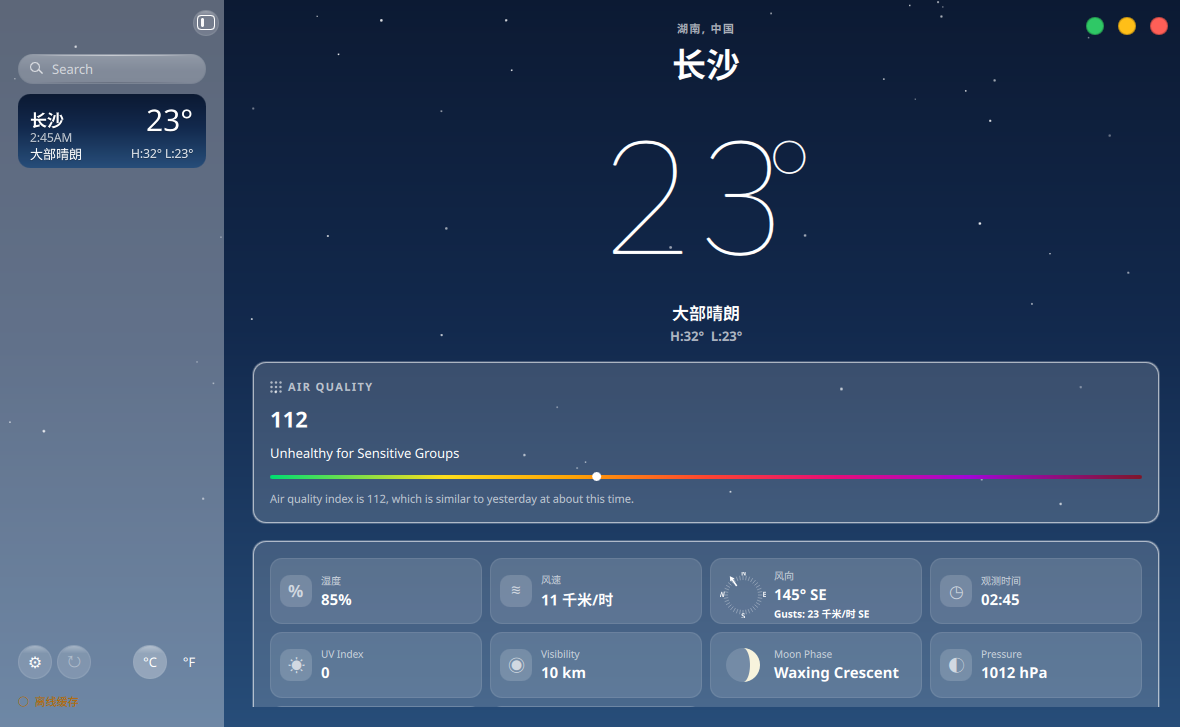
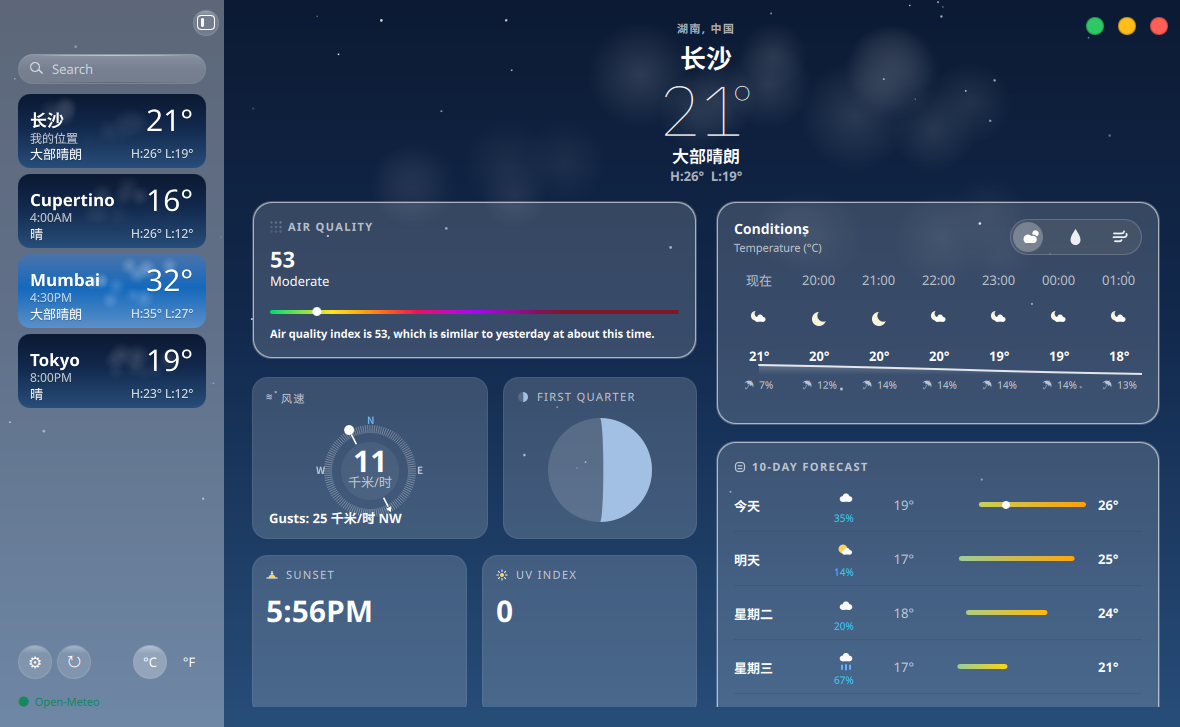
docs: round 51 进度与截图

diff --git a/docs/ui-weather/LEDGER.md b/docs/ui-weather/LEDGER.md
@@ -4,6 +4,11 @@
 参考实测色（814×498 主图采样）：天空 `#2961a7→#1469bc→#538ec9`（上→下，含云照片）；Conditions 卡 `#0057b2`；hero 文本 `#ffffff`；10天条渐变 青→黄→橙。
 
 ## 已改
+- **月相卡月亮亮面色值校准：暖米白 → 参考冷蓝白（本轮，前端，零 Go/C++/shared/翻译改动，巡检轮新发现）**：巡检截图（tmp/shots/patrol-1792322983.png 过体检闸 ✅ 1180×727，dev env KOS_DATA_SOCKET=/tmp/kos-weather-dev.sock + XDG_STATE_HOME=/tmp/kos-weather-test-state + KOS_SCREENSHOT_DELAY_MS=2500）对照 tile-cards 发现——参考月亮是**冷蓝白照片**（亮面严格阈值 b>200∧g>170∧r>140 剔卡底后 n=4701：均值 (161,192,228)、中位 (159,189,228)、p90 (184,208,234)、峰值 (228,236,247)），我方亮面是**暖米黄 #f7f3dc (247,243,220)**，色相相反（黄 vs 蓝），系月相大卡最扎眼残差。`apps/weather/qml/Main.qml:2119`（头部 12px glyph）与 `:2173`（大盘 moonCanvas）两处 `ctx.fillStyle` `"#f7f3dc"`→`"#a1c0e4"`（= 实测均值 (161,192,228)）；相位几何/暗面 α0.14/布局零改动。
+  **实测**（本轮二进制截图 tmp/shots/mooncolor-1792323400.png 过体检闸 ✅ 1180×727）：亮面采样 (650,470)/(620,490)/(635,455) = **(161,192,228) 精确命中**；目视 /tmp/z-mine-moon2.png：冷蓝白与参考同族、暗面/终止线/glyph 同步换色无硬边。
+  **回归**（vs 改前 patrol-1792322983，2px 步进 diff>24）：变化 1036 采样，1015 落月相卡 bbox (500-700×375-540)（本体），外圈 21 稀疏采样散布星空/时钟已知噪声族，整窗 MAE **0.057**——hero/侧栏/WIND/SUNSET/UV/Conditions/10 天零结构位移。测试 Qt 6/6 绿（env -u KOS_DATA_SOCKET）、go test ok。本轮无动效改动，无帧差义务。
+  **残差（记入外推待确认）**：参考亮面是带陨石坑纹理的照片，平面填充无纹理与峰值高光（ref 峰值 228,236,247 vs 我方平色 161,192,228）——照片纹理不可程序化逐点复刻（既有"参考是照片"口径）。
+  **勘误（env 坑再次踩中）**：本轮首拍 patrol-1792322912 用默认 env 连到旧系统服务（`~/.local/libexec/kos-data-service` 仍占 /run/user/1000/kos-data.sock，dev 实例在 /tmp/kos-weather-dev.sock），AQ/UV/月相全 "—"、单城——系 env 错误非回归（LEDGER:173 既有记载，仍生效）。
 - **WIND 卡环心单位行上移 10px，消除与刻度环的碰撞（本轮，前端，零 Go/C++/shared/翻译改动，巡检轮新发现）**：巡检截图（tmp/shots/patrol-1792322227.png 过体检闸 ✅ 1180×727）4x 放大罗盘发现——环心单位 "千米/时" 墨底 y~500 距 6 点方向刻度内缘（实测 y509-513）仅 ~10px、刻度贴字形，且单位四角半径 sqrt(20²+28²)≈34 已侵入指针箭头段路径 r30；参考 tile-cards WIND 卡（222px 宽卡）"5/mph" 全部在内缘以内（数字→单位墨距 ~5px、单位墨底距刻度内缘 ~30px）。根因：数字 Label（30px）行盒死降部把单位墨压低——数字→单位墨距 16px vs 参考 ~5px。`apps/weather/qml/Main.qml:2008` 单位 Label 加 `transform: Translate { y: -10 }`（纯视觉上移、不动布局盒故数字墨位零位移；:2007 注释标明实测依据）；Canvas 刻度/字母/指针、数字字号、Gusts 行、卡高零改动。
   **实测**（本轮二进制截图 tmp/shots/windunit-1792322566.png 过体检闸 ✅ 1180×727）：数字墨 451-471 **零位移**；单位墨 487-500→**476-487**（上移 11px），数字→单位墨距 16→**5px**（=ref tile-cards ~5px）；单位墨底距刻度内缘 10→**22px**；单位四角 r≈26 退出箭头路径 r30；目视 /tmp/z-ring2.png：单位完整落在环内、底部刻度无贴字。
   **回归**（vs 改前 patrol-1792322227，2px 步进 diff>24）：整窗 MAE **0.029**、变化 87 采样，卡外仅 7 稀疏采样（星空/时钟已知噪声族）——罗盘外零结构位移。qmllint 0 error。测试 Qt 6/6 绿、go test ok。本轮无动效改动，无帧差义务。
@@ -361,6 +366,7 @@
 15. ~~**分段胶囊水滴 glyph 偏小**~~（**已做**，见已改首条——canvas 12×16→15×20 坐标 ×1.25，墨 8×11→9×15、相对比 0.306→0.417 vs ref 0.386；残差：宽 −1/高 +1 反向各 1px，AA 级不再动。**注意**：同族"云+日偏小"不成立（勿动）；风 glyph 邻域吻合（✓），两条防误改裁定继续有效）。
 
 ## 外推待确认
+- **月相亮面平面均值填充无纹理（本轮新增）**：ref 月亮是带陨石坑纹理的照片，亮面峰值 (228,236,247)、均值 (161,192,228)；我方平面填充取均值 #a1c0e4，无纹理与高光渐变——照片纹理不可程序化逐点复刻（与"侧栏卡云纹理"同口径）；若日后引入程序化斑驳纹理，需以本轮 n=4701 分布（中位 159,189,228 / p90 184,208,234）为校准目标。
 - **"My Location" 以"选中卡"代"定位城"（本轮新增）**：ref 首卡副行 "My Location" 语义是该城为当前定位城（Apple 有定位概念）；本项目无定位城概念，按 LEDGER 既有裁定简化为"选中的卡就显示"——用户手动选中其他城时该卡也会显示"我的位置"，与 Apple 语义有偏差（ref 中未选中定位卡时应显当地时间）。修法需后端引入定位城 id 概念，暂不立轮。
 - **10 天行轨道删除后极淡轨道不可全排除（本轮新增）**：ref 814 降采样下，若 Apple 原生带 ≤0.08 alpha 的极淡轨道，与卡面 Δ~12 可能被降采样+AA 抹到采样阈值以下——本轮按"可见像素=无轨道"删除（旧白@0.28 实测 Δ+53 远超此限，删除方向不受影响）；若日后拿到原生分辨率参考需复核。
 - **温度曲线带落位对布局偏移敏感（本轮新增）**：曲线带（Main.qml:2677-2679 band 100..110）按"content→real 偏移 +266 + 温度墨底 96 / ☂ 墨顶 114-115"标定，该偏移随 Conditions 卡头部/分段控件上方布局变动而漂移（本轮实证旧值 97..113 就是这样过期的）；未来再动卡头布局需按同法（带值→渲染 real 逐点回归）复测。曲线形态本身仍系用户裁定 1 外推（ref 无曲线），可见段占带比例随快照温度分布浮动（19° 非全天最低时带底不被触及属正常）。
